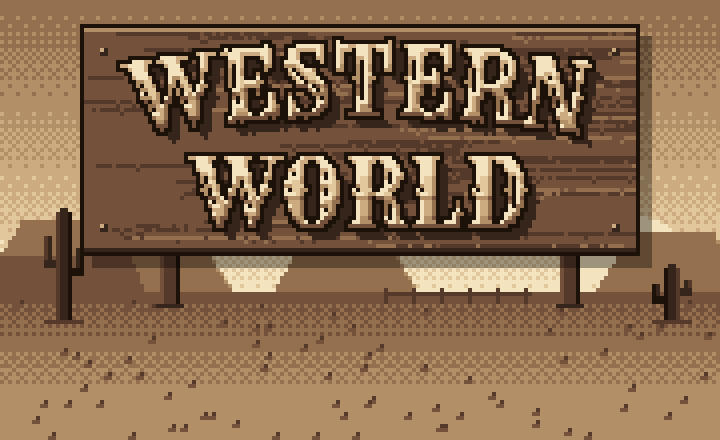
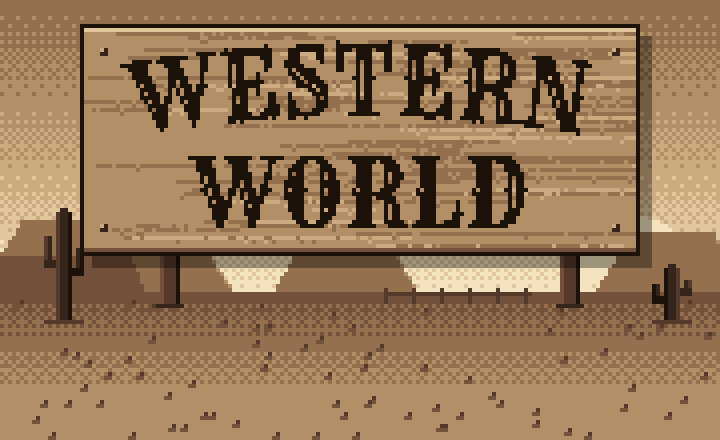
Western World: flat dark lettering on the button, trail screen and scoreboard

diff --git a/western-world.html b/western-world.html
@@ -158,6 +158,14 @@ const Pix = (() => {
       mg.save(); mg.translate(mid, base + lift(mid)); mg.rotate(ang); mg.scale(1, opt.stretch); mg.textAlign = 'center'; mg.fillText(ch, 0, 0); mg.restore(); x += ws[i]; });
     const d = mg.getImageData(0, 0, W, H).data, on = (x, y) => x >= 0 && y >= 0 && x < W && y < H && d[(y * W + x) * 4 + 3] > 120;
     const capH = size * 0.74 * opt.stretch;
+    // flat: one colour, an optional dark outline, no shading and no shadow
+    if (opt.flat) {
+      for (let y = 0; y < H; y++) for (let x = 0; x < W; x++) {
+        if (on(x, y)) { rect(g, x, y, 1, 1, opt.fill || P[7]); continue; }
+        if (opt.outline !== false && (on(x - 1, y) || on(x + 1, y) || on(x, y - 1) || on(x, y + 1))) rect(g, x, y, 1, 1, P[0]);
+      }
+      return;
+    }
     for (let y = 0; y < H; y++) for (let x = 0; x < W; x++) { if (on(x, y)) continue;
       let near = false; for (let a = -1; a <= 1 && !near; a++) for (let b = -1; b <= 1; b++) if (on(x + a, y + b)) { near = true; break; }
       if (near) { rect(g, x, y, 1, 1, P[0]); continue; }
@@ -706,12 +714,12 @@ function trailArt(el) {
   const r = Pix.rng(5); for (let i = 0; i < 26; i++) rect(pg, 2 + Math.floor(r() * 4), Math.floor(r() * 64), 1, 2 + Math.floor(r() * 5), r() < 0.6 ? P[2] : P[4]);
   el.style.setProperty('--pixpost', `url(${scale(po, 2).toDataURL()})`);
   // the name, on one board
-  const t = board(156, 68, 11, { tone: 3, nails: [[5, 6], [149, 6], [5, 60], [149, 60]] }), tg = t.getContext('2d');
-  Pix.epic(tg, 'WESTERN', 78, 35, 23, { arc: 6 }); Pix.epic(tg, 'WORLD', 78, 60, 23);
+  const t = board(156, 68, 11, { tone: 5, nails: [[5, 6], [149, 6], [5, 60], [149, 60]] }), tg = t.getContext('2d'), flat = { flat: true, outline: false, fill: P[0] };
+  Pix.epic(tg, 'WESTERN', 78, 35, 23, { arc: 6, ...flat }); Pix.epic(tg, 'WORLD', 78, 60, 23, flat);
   return { title: scale(t, 2).toDataURL(), sign(name, sub, dir, seed, shut) {
     const c = board(124, 30, seed, { dir, tone: shut ? 4 : 5, knots: 1, nails: [[dir > 0 ? 6 : 116, 13]] }), g = c.getContext('2d'), cx = 62 - dir * 5;
-    big(g, name, cx, sub ? 18 : 21, 15, shut ? P[1] : P[0], P[shut ? 5 : 7]);
-    if (sub) small(g, sub, cx, 21, P[0], shut ? P[5] : P[7]);
+    big(g, name, cx, sub ? 18 : 21, 15, shut ? P[1] : P[0], null);
+    if (sub) small(g, sub, cx, 21, P[0], null);
     return scale(c, 2).toDataURL(); } };
 }
 function showStart() {
@@ -796,13 +804,13 @@ function drawHudPix() {
     if (a.key === label + val) return; a.key = label + val;
     const g = a.c.getContext('2d'), w = a.c.width, h = a.c.height, P = Pix.P;
     g.clearRect(0, 0, w, h); g.drawImage(a.base, 0, 0);
-    Pix.small(g, label, w / 2, 3, P[0], P[7]);
+    Pix.small(g, label, w / 2, 3, P[0], null);
     // the value in the western face, as big as the board allows
     // squeeze it sideways rather than shrink it, down to two thirds width, then shrink if it still won't fit
     let size = Math.round((h - 14) / 0.7); g.font = `${size}px Rye, serif`;
     while (size > 8 && g.measureText(val).width * 0.66 > w - 5) { size--; g.font = `${size}px Rye, serif`; }
     const sx = Math.min(1, (w - 5) / g.measureText(val).width);
-    Pix.big(g, val, w / 2, h - 3, size, P[0], P[7], sx);
+    Pix.big(g, val, w / 2, h - 3, size, P[0], null, sx);
   });
 }
 window.addEventListener('resize', fit);

diff --git a/arcade.html b/arcade.html
@@ -133,7 +133,7 @@ a { color: inherit; text-decoration: none; }
 .dt .go { flex-shrink: 0; background: #00a844; color: #fcfcfc; padding: 4px 14px 3px; font-size: 26px; border-bottom: 4px solid #006028; }
 .ww { position: relative; display: block; background: #120a05; filter: drop-shadow(0 6px 5px rgba(0,0,0,0.5)); }
 .ww img { display: block; width: 100%; height: auto; image-rendering: pixelated; }
-.ww .sub.best { position: absolute; left: 0; right: 0; bottom: 4%; text-align: center; font-family: 'Rye', serif; font-size: 17px; color: #f3e3bf; text-shadow: 2px 2px 0 #1c120a; }
+.ww .sub.best { position: absolute; left: 0; right: 0; bottom: 4%; text-align: center; font-family: 'Rye', serif; font-size: 17px; color: #1c120a; text-shadow: none; }
 .pl { background: #0a0c16; color: #e8ecf8; border: 2px solid #2a2e44; border-radius: 8px; overflow: hidden; font-family: 'Share Tech Mono', monospace; }
 .pl svg { display: block; width: 100%; height: auto; aspect-ratio: 2 / 1; }
 .pl .info { display: flex; justify-content: space-between; align-items: flex-end; padding: 10px 14px 14px; }
